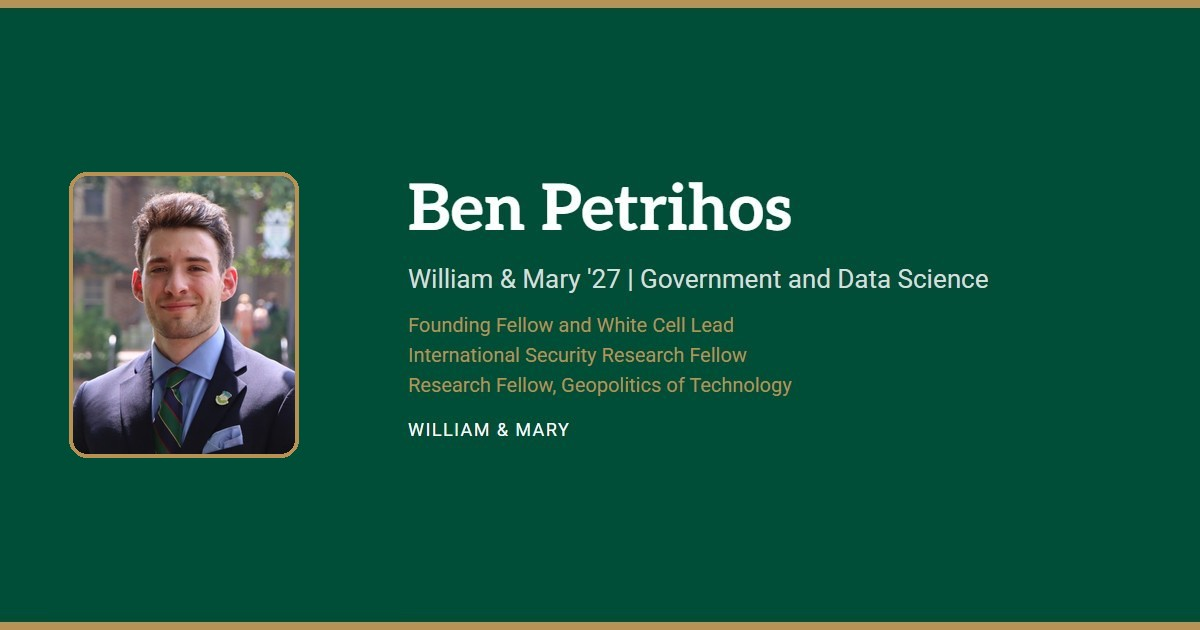
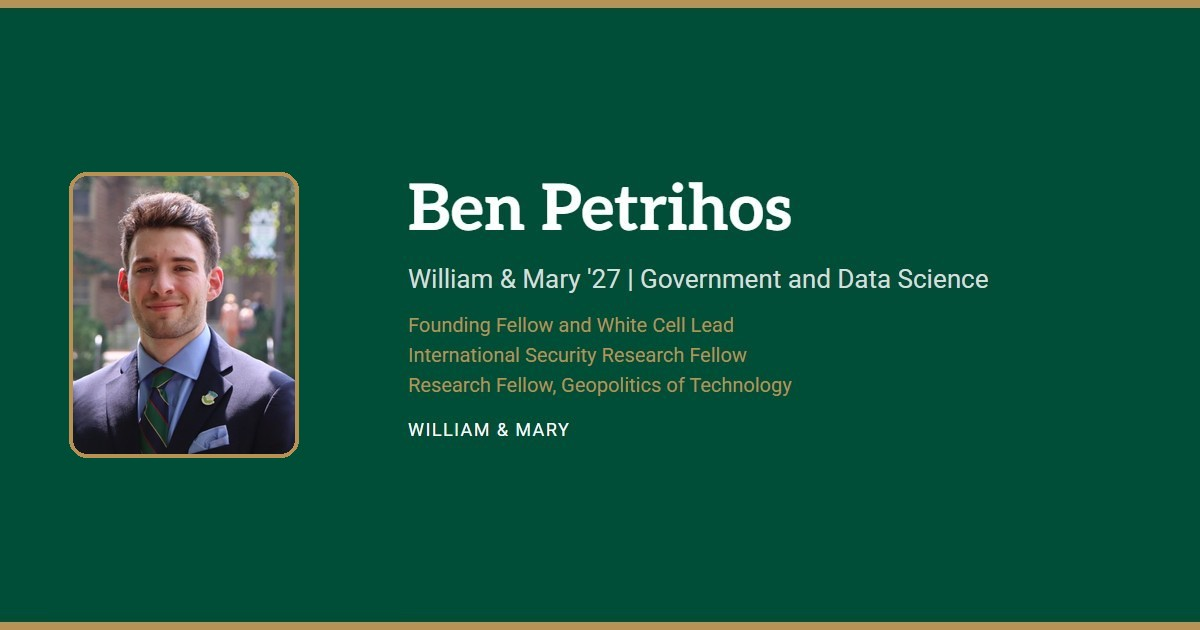
Close the left shoulder gap without sliding the portrait off center.

Changed region(s): [[0.0617, 0.2714, 0.2467, 0.7238]]

diff --git a/index.html b/index.html
@@ -231,7 +231,7 @@
   <header class="masthead">
     <div class="masthead-inner">
       <div class="identity-row">
-        <img class="headshot" src="headshot.jpg?v=8" alt="Ben Petrihos" width="128" height="160">
+        <img class="headshot" src="headshot.jpg?v=10" alt="Ben Petrihos" width="128" height="160">
         <div class="identity">
           <h1>Ben Petrihos</h1>
           <p class="line">William &amp; Mary '27 | Government and Data Science</p>
